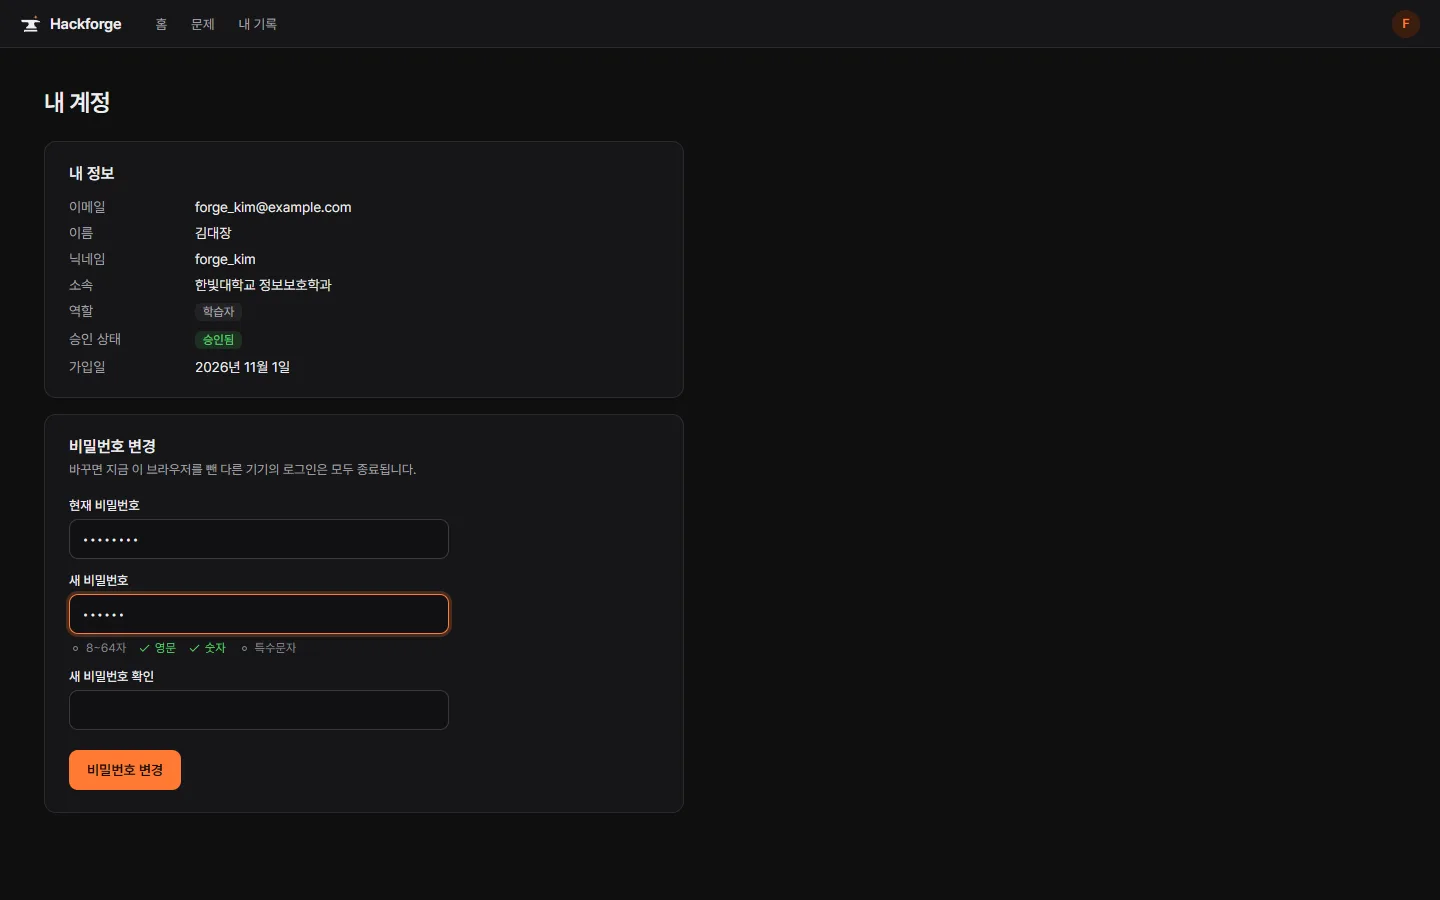
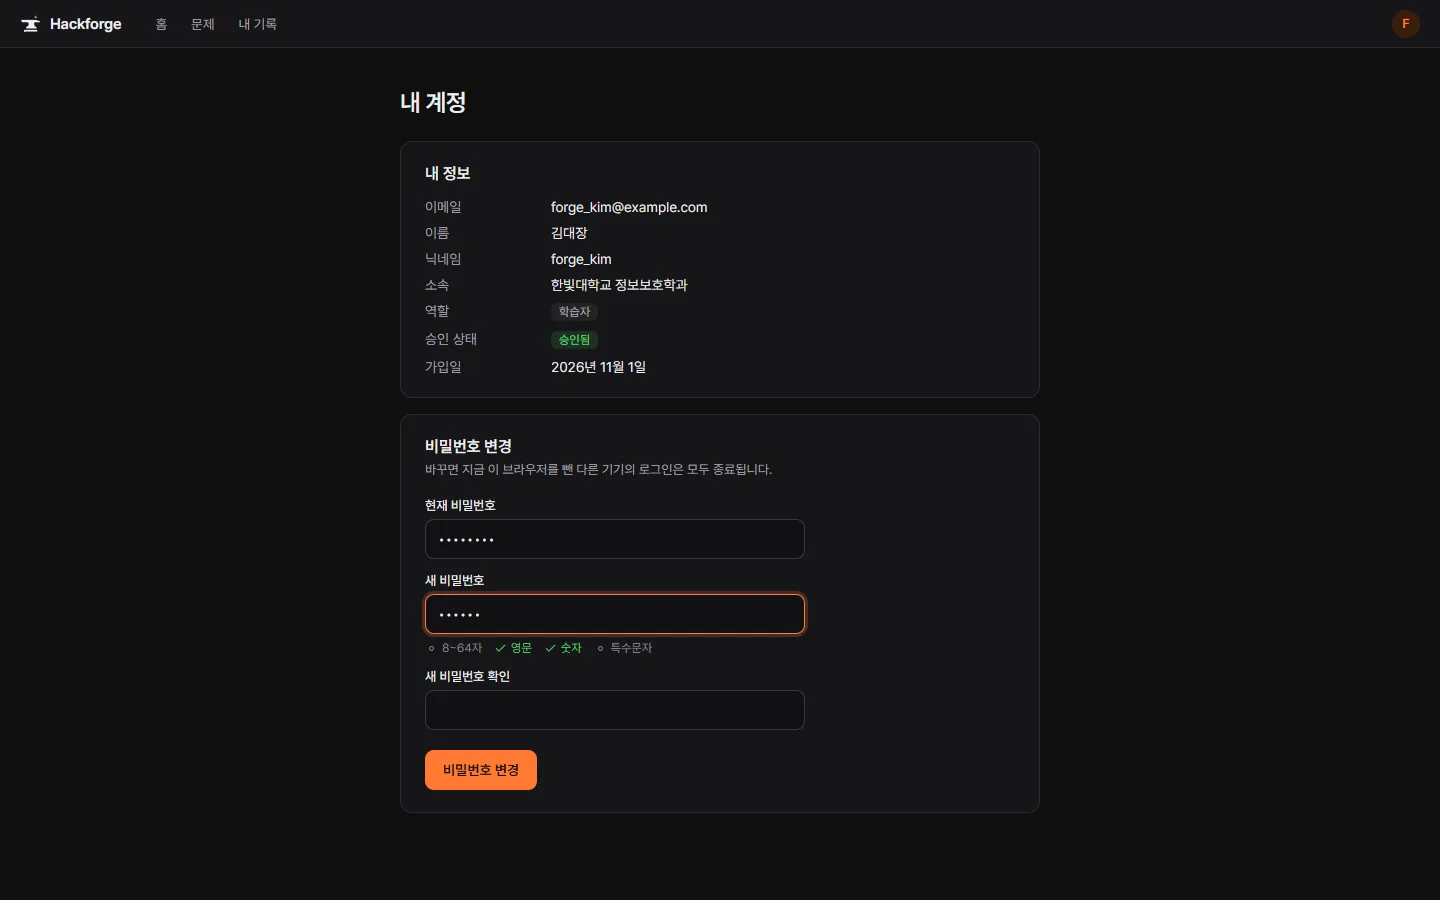
docs: 로그인·가입 카드 세로 가운데, 내 계정 한 열 가운데, 계정 관리 1240px 틀 가운데
시안이 본문 1240px 가운데 규칙을 어기고 왼쪽에 붙어 있었음. 사람이 정함

diff --git a/DESIGN.md b/DESIGN.md
@@ -197,10 +197,10 @@ components:
 - 640px 미만: 로고 이름을 숨겨 가로로 넘치지 않게 한다
 
 ### 계정 화면 (2026-11-19 사람이 확정, 캡처 `design/screens/account-*`)
-- 로그인·가입 신청: 상단 줄 아래 가운데에 카드 하나(최대 폭 440px, 모서리 14px, 안쪽 여백 32px). 카드 위 가장자리에 담금질 색 선 3px(불티 노랑 → 불씨 → 보라 → 강철 파랑 → 회색). 제목 24px 600, 그 아래 한 줄 설명. 주 버튼은 폭 가득
+- 로그인·가입 신청: 상단 줄 아래에 카드 하나(최대 폭 440px, 모서리 14px, 안쪽 여백 32px). 가로는 가운데, 세로는 가운데보다 살짝 위(위아래 여백 2:3)이고, 카드가 화면보다 길면 위에서 시작한다. 카드 위 가장자리에 담금질 색 선 3px(불티 노랑 → 불씨 → 보라 → 강철 파랑 → 회색). 제목 24px 600, 그 아래 한 줄 설명. 주 버튼은 폭 가득
 - 가입 신청은 이름과 닉네임을 한 줄에 두 칸으로. 가입 메모 칸은 예시 없이 비워 두고 아래에 "관리자가 승인할 때 본인 확인에 씁니다". 개인정보 동의는 체크 줄 오른쪽 "내용 보기"로 펼침(문구는 hackforge-docs ADR 018)
-- 내 계정: 본문 왼쪽 정렬, 제목 아래 패널 두 개(내 정보, 비밀번호 변경)를 최대 폭 640px로 쌓음. 내 정보는 이름표와 값 두 열로 보기만 함. 담금질 선은 로그인·가입 카드에만 쓴다
-- 계정 관리: 제목과 설명, 상태 탭(승인 대기, 승인됨, 거절됨, 탭마다 계정 수. 지금 탭의 수는 불씨 채움), 그 아래 표. 승인 대기 탭은 가입일·이름과 닉네임(아래 이메일)·소속·가입 메모·동작, 승인됨 탭은 가입 메모 대신 역할 칩. 동작 버튼은 줄 오른쪽 끝에 작은 보조 버튼(30px)으로, 승인만 초록 선과 글자
+- 내 계정: 제목과 패널 두 개(내 정보, 비밀번호 변경)를 640px 한 열로 묶어 화면 가운데에 둔다. 내 정보는 이름표와 값 두 열로 보기만 함. 담금질 선은 로그인·가입 카드에만 쓴다
+- 계정 관리: 본문 1240px 틀을 화면 가운데에 두고 그 안에서 왼쪽 정렬. 제목과 설명, 상태 탭(승인 대기, 승인됨, 거절됨, 탭마다 계정 수. 지금 탭의 수는 불씨 채움), 그 아래 표. 승인 대기 탭은 가입일·이름과 닉네임(아래 이메일)·소속·가입 메모·동작, 승인됨 탭은 가입 메모 대신 역할 칩. 동작 버튼은 줄 오른쪽 끝에 작은 보조 버튼(30px)으로, 승인만 초록 선과 글자
 - 관리자 본인 줄은 이름 옆에 "본인"을 붙이고 역할 변경과 임시 비밀번호를 막는다(본인 비밀번호는 내 계정에서)
 - 빈 목록은 표 자리 가운데에 굵은 한 줄과 설명 한 줄
 
